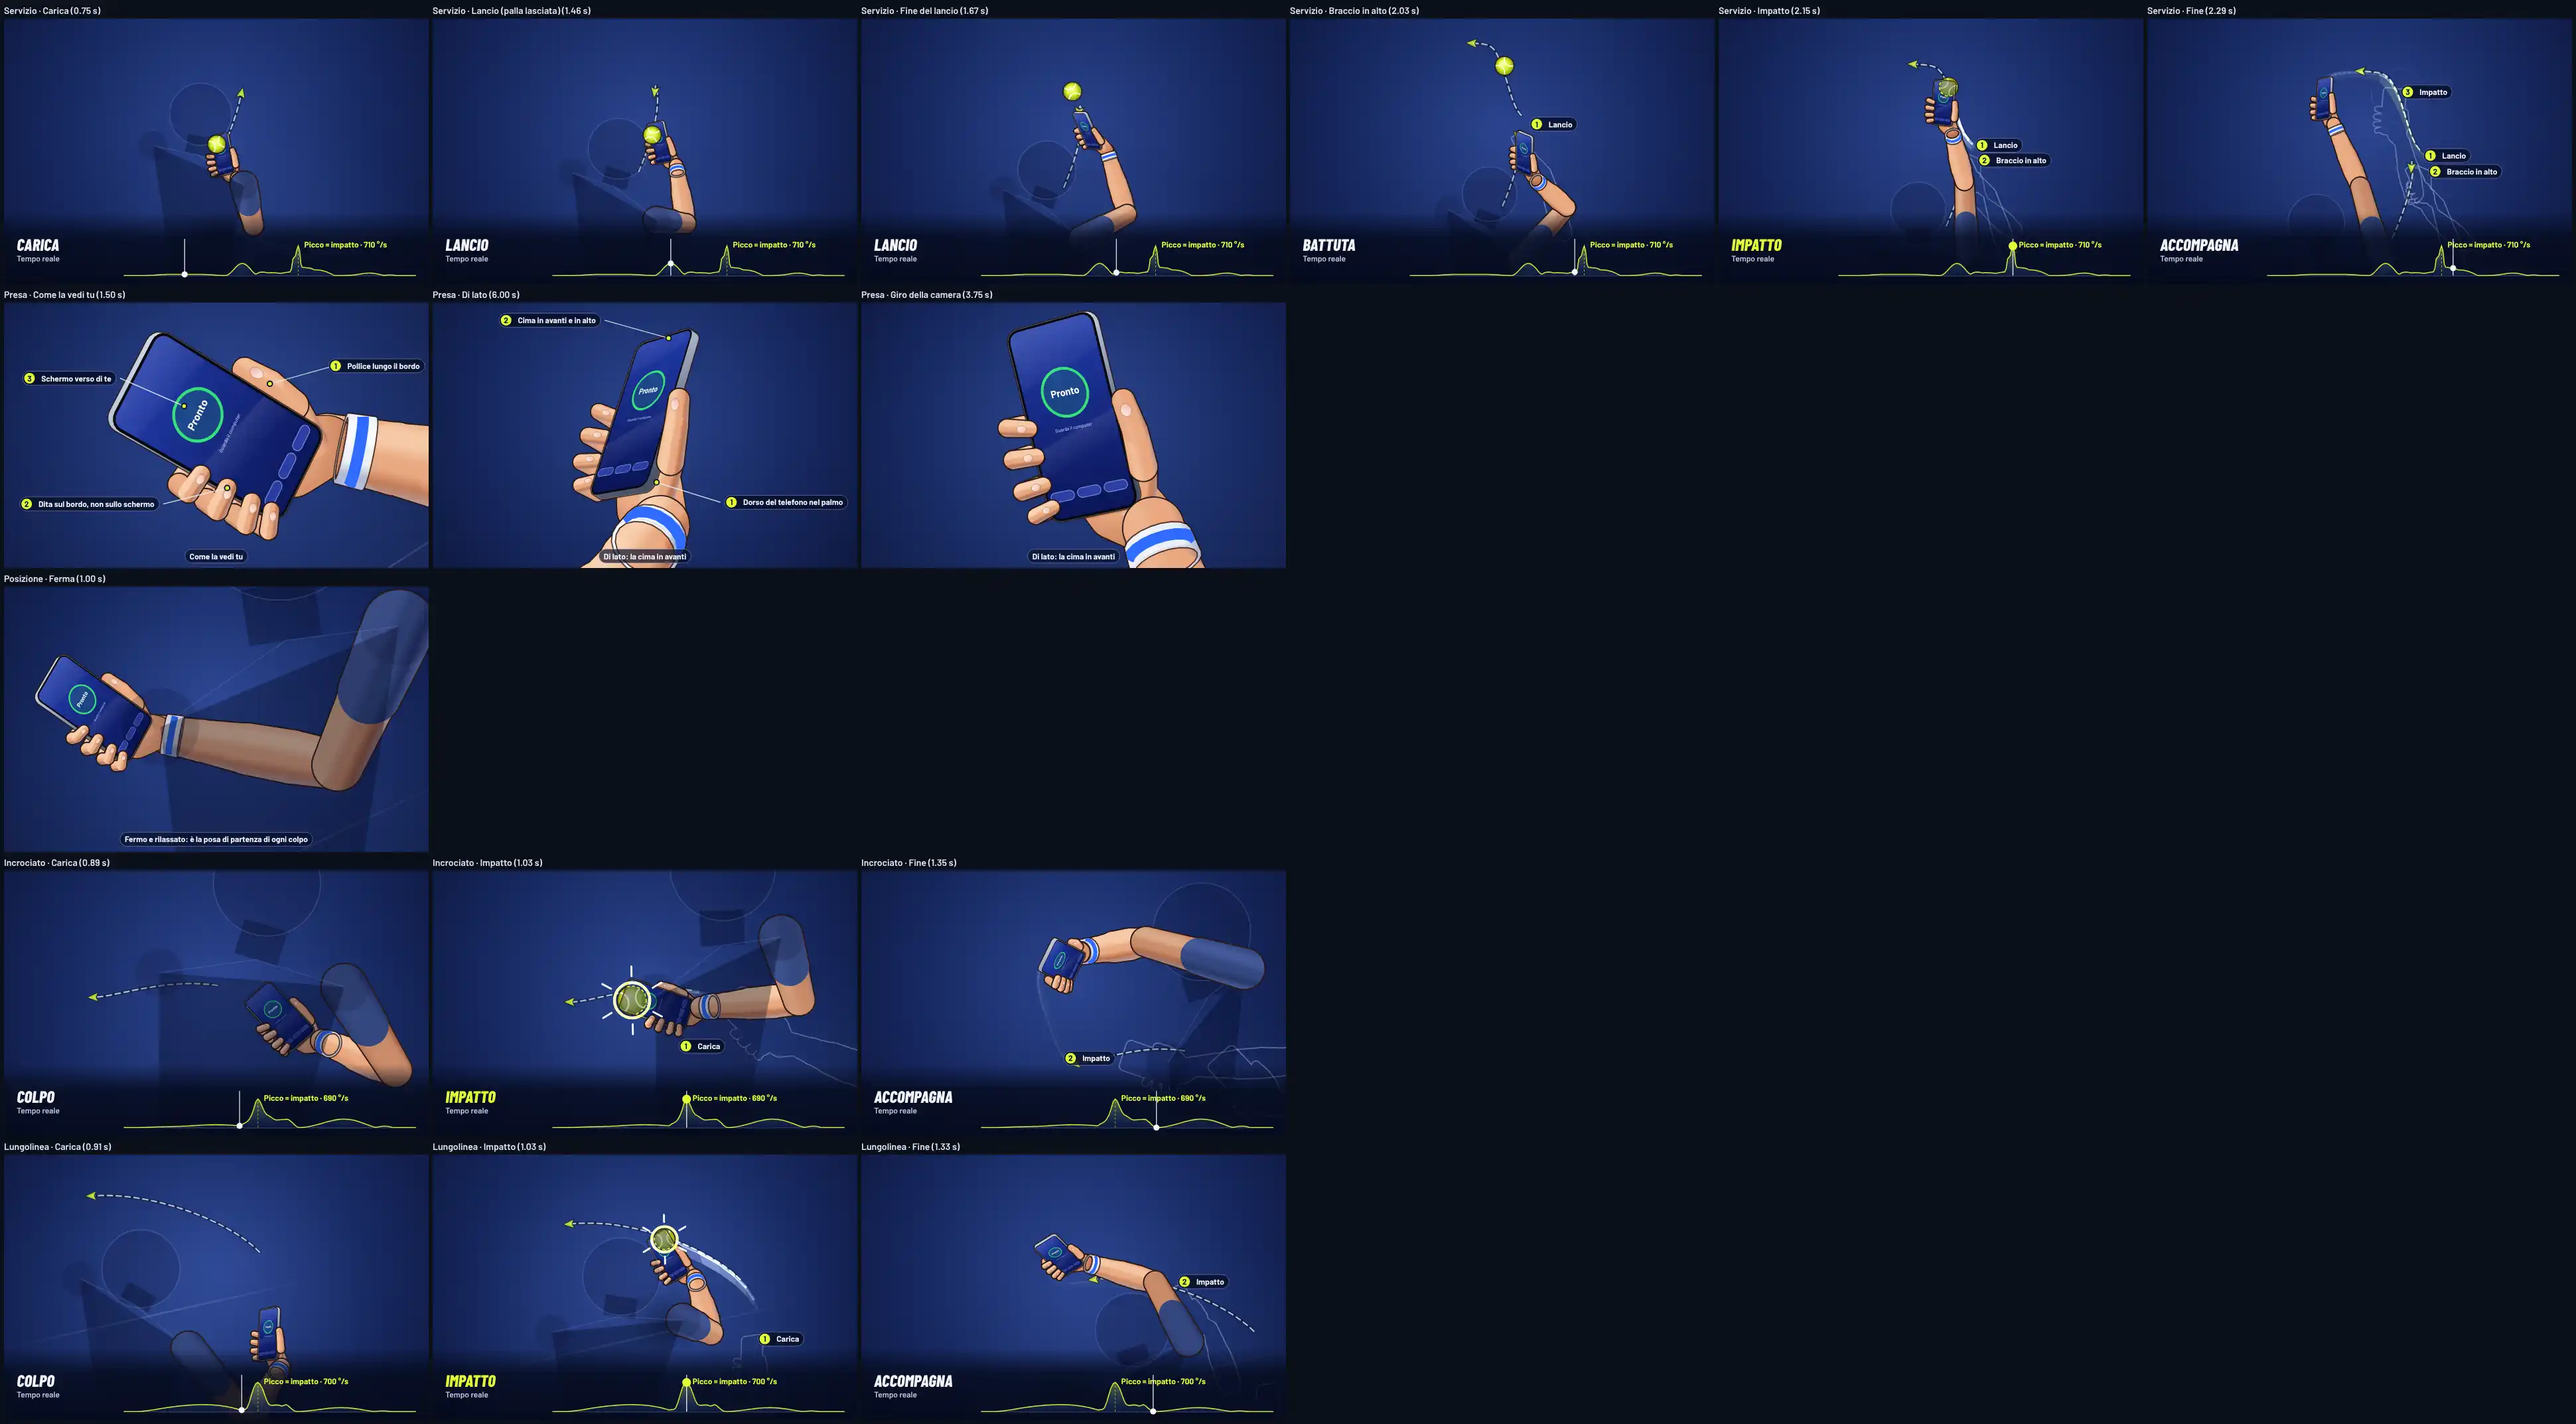
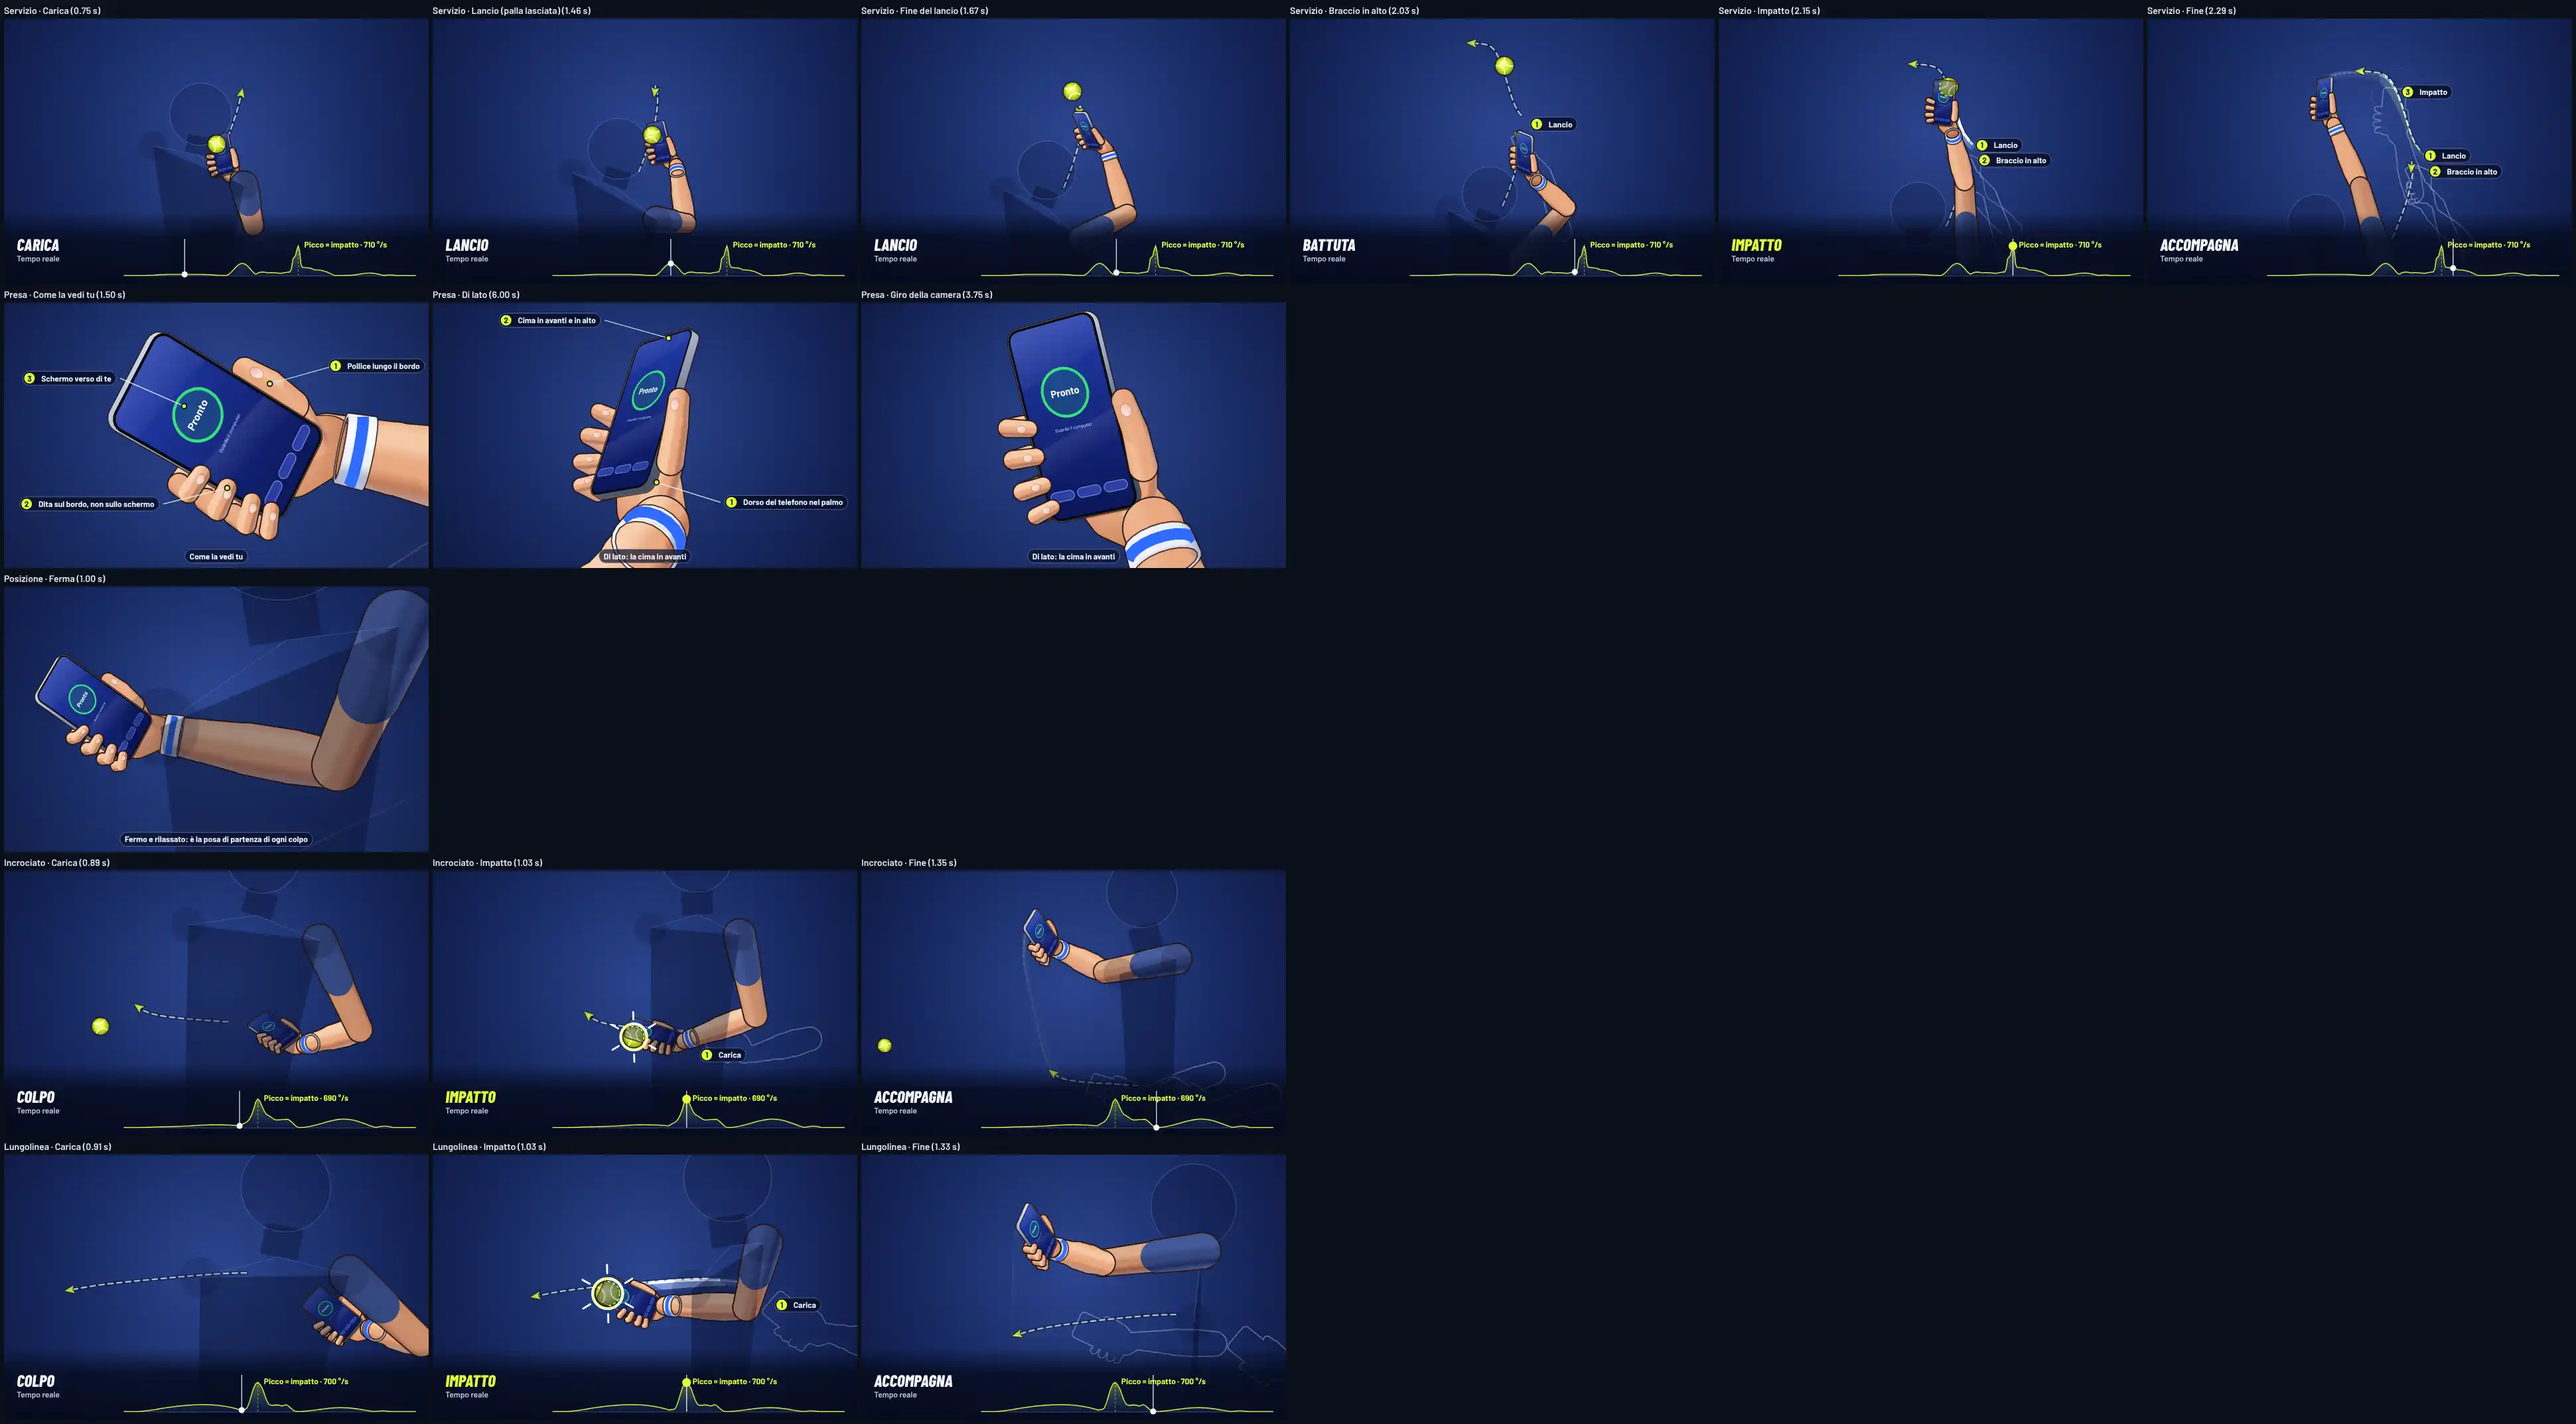
Documenti B14: versione 2026-11-08.2 pubblicata (camere più basse, vincolo del dritto smentito), B14.2 in corso
Claude-Session: https://claude.ai/code/session_01R98qPBRMWiYnbcjA1WWYB9

diff --git a/docs/WORK_PROGRESS.md b/docs/WORK_PROGRESS.md
@@ -505,3 +505,36 @@ Analisi in `docs/b9/` (modale e animazione, specifica dei gesti, telefono e sche
   `gesture-calibration` al primo tentativo; «NATPF motore base MVP» verde; «NATPF eseguibili Windows» verde e installer
[1 lines of base64/hex data omitted]
   `latest.json` con la novità e link fisso `windows/NATPF-Simulator-Setup.exe` controllati dall'indirizzo pubblico).
+
+## B14 · Dritto: limite smentito, camere più basse, orientamento del telefono · [~] · 08/11/2026
+- Seguito del B13 (stessa richiesta: «il dritto non mi sembra tale»). Indagine in tre rami locali con verifiche
+  indipendenti (brief in scratchpad, riassunti qui):
+  - (A) **Vincolo del B13 smentito**: dritto con la mano a 32,8° dalla rete (prima 56,7°) senza toccare il riconoscimento,
+    887/887, 40/40 letture, 0/72 errori con le prese di chi imita; il limite veniva dalle bande dell'ottimizzatore del B13.
+    Vincoli veri con file e righe in `docs/PROJECT_MEMORY.md` (gesti B13). **Non integrato**: il verificatore ha visto nei
+    fogli un guadagno modesto e alcuni peggioramenti (contatto più basso e arretrato, palmo meno davanti).
+  - (B) **Camere** (integrato, `1b779d2`, `2b7d0b6`): dritto da dietro a sinistra e in basso (azimut −55°, elevazione 15°),
+    la camera segue meno la mano (`follow.mixSmall`); lungolinea, incrociato, piatto, rovescio ritoccati. Sullo schermo
+    «avanti» e «in alto» ora distinti di 78° (prima 20°), mano all'impatto 9° dalla direzione della rete sullo schermo
+    (prima 59°), salita dopo l'impatto +0,28 dell'altezza (prima scendeva di circa 7 px). Moto identico (verificato su
+    40.700 campioni). Nuovo test `natpf-gesture-camera.test.mjs`; prototipo della testa di racchetta fantasma **spento**
+    (`GHOST_RACKET = false`: con l'orientamento di oggi mostrerebbe la racchetta verso la rete all'impatto).
+    Documento `docs/b14/camera-dritto.md`.
+  - (C) **Revisione a occhi nuovi** di tutte le schede: il problema del dritto è l'**orientamento del telefono** (la cima,
+    cioè la racchetta virtuale, punta alla rete in carica; all'impatto palmo e schermo guardano chi gioca; la testa della
+    racchetta va a 89° dalla rete). Altri punti: volée che spazza invece di spingere, fine di servizio e schiacciata
+    troppo alte, tenute finali di 0,03 s, palla corta troppo vicina, fascia del grafico che copre pose chiave, fantasmi che
+    sembrano braccia in più, busto a pezzi con la testa trasparente, manica troppo grande.
+- [x] B14.1 · versione **2026-11-08.2** (`04a702d`: correzioni ai commenti e ai documenti delle camere, vincolo smentito nei
+  documenti, novità). Verifiche: gioco 891/891, sito 195/195, LAN 12/12, programma Windows 28/28, build ok; nel browser
+  `gesture-calibration` 18/18, `natpf-modale-gesti` 18/18, `natpf-gesti-fotogrammi` 31/31, `natpf-gesti-sequenze` 47/47,
+  `natpf-training-flow` 18/18, `natpf-tutorial-phone` 37/37, `natpf-tutorial-relink` 8/8. Zip Cloudflare
+  `natpf-simulator-cloudflare-20261108-2.zip` 22.566.432 B (127 file), sha256
[1 lines of base64/hex data omitted]
+  GitHub: tre esecuzioni verdi; installer **2026-11-08.2 pubblicato su R2** (124.594.293 B, sha256
[1 lines of base64/hex data omitted]
+- [~] B14.2 (in corso, rami locali `b14-d`, `b14-e`, `b14-f` da `04a702d`, non pubblicati): (D) famiglia del dritto con
+  la racchetta portata indietro in carica e il palmo verso la rete all'impatto; (F) volée a pugno, fine di servizio e
+  schiacciata fino alla vita, tenute finali, palla corta, rovescio, pallonetto e tagliato; (E) disegno (fascia del
+  grafico, fantasmi, busto unico con occlusione, manica, palla sulla faccia giusta, 200×200, fotogrammi «Fine»).
+- Non verificato: telefoni veri, persone vere, Windows; l'utente non ha ancora visto i fogli.

diff --git a/docs/PIANO_LAVORI.md b/docs/PIANO_LAVORI.md
@@ -42,12 +42,19 @@ Come si aggiorna:
   libero in servizio e schiacciata; camera alta da dietro (stile TV) per i colpi da fondo.
 - GitHub: le tre esecuzioni del push sono verdi («NATPF Simulator tests» con `gesture-calibration` al primo tentativo);
   installer **2026-11-08.1 pubblicato su R2** (sha256 `4000b1b7…60753204`). Zip Cloudflare sha256 `34889962…cf5a3cf0`.
-- In corso (08/11): indagine B14 sul dritto, solo in rami locali (`b14-dritto-a`, `b14-dritto-b`, non pubblicati):
-  (a) smentire o confermare il limite del riconoscimento cercando un dritto con la mano ≤ 35° dalla rete che passi le
-  prove di fedeltà; (b) inquadrature più leggibili; (c) revisione a occhi nuovi dei fogli.
-- **Prossima azione esatta:** leggere l'esito dell'indagine B14 (se interrotta, i rami locali e le note
-  `scratchpad/b14/notes-*.md` non sopravvivono alla sessione: ripartire dalla domanda (a) se serve) e aspettare il parere
-  dell'utente sui gesti e sulle tre decisioni.
+- **B14 (08/11, seguito del B13):** il «vincolo del riconoscimento» del dritto è smentito (33° dalla rete senza
+  toccarlo, verificato); camere più basse per il dritto e i colpi da fondo integrate: versione **2026-11-08.2**
+  (`04a702d`), tutte le prove verdi, tre esecuzioni di GitHub verdi, installer pubblicato su R2 (sha256 `18559a51…bc5049a8`),
+  zip Cloudflare sha256 `cf51aa20…b10fd4f6`. La revisione a occhi nuovi ha trovato il problema vero del dritto:
+  l'orientamento del telefono (racchetta verso la rete in carica, palmo verso chi gioca all'impatto). Dettaglio in
+  `docs/WORK_PROGRESS.md` B14.
+- **In corso:** B14.2 in tre rami locali da `04a702d` (non pubblicati, non sopravvivono alla fine della sessione):
+  (D) dritto, piatto, incrociato e lungolinea con la racchetta portata indietro e il palmo verso la rete; (F) volée,
+  servizio, schiacciata, tenute finali, palla corta, rovescio, pallonetto, tagliato; (E) disegno. Ognuno con una verifica
+  indipendente; poi integrazione, prove complete, versione 2026-11-08.3.
+- **Prossima azione esatta:** integrare i rami B14.2 verificati (le modifiche marcate «PROPOSTA:» a test o dati di
+  calibrazione si valutano una per una); se la sessione è finita, ripartire dal brief della revisione riassunto in
+  `docs/WORK_PROGRESS.md` B14 punto (C). Restano le decisioni dell'utente (sagoma del busto, racchetta fantasma, camera).
 ## 2. Regole di lavoro decise dall'utente (04/11/2026, valgono per tutti gli agenti)
 
 1. **Push**: dopo ogni commit verificato, subito, su `origin natpf-simulator`. Verificato = test del gioco e del sito
@@ -124,6 +131,7 @@ Legenda: [ ] da fare · [~] in corso · [x] fatto, verificato e pubblicato.
 | B11 Installer unico con aggiornamenti | [x] | un solo installer Windows che si aggiorna dal gioco (Cloudflare R2, bucket UE `natpfsimulator`), zip LAN e portatile tolti; collaudo Windows dell'utente in corso | `8623bd9`…`fa190f2` | 2026-11-07.4 |
 | B12 Forza del colpo e CI | [x] | colpo tipico solo dai colpi normali (palle corte non abbassano più la forza); azioni di GitHub a Node 24 | vedi WORK_PROGRESS B12 | 2026-11-07.5 |
 | B13 Prova del servizio e gesti del tutorial | [x] | `gesture-calibration` senza pausa di rete (stabile con CPU ×4); gesti del tutorial sulla catena fisica del braccio (dritto ancora in diagonale: limite del riconoscimento) | vedi WORK_PROGRESS B13 | 2026-11-08.1 |
+| B14 Dritto: limite, camere, orientamento | [~] | vincolo smentito; camere più basse (2026-11-08.2); in corso orientamento del telefono nel dritto, altri colpi, disegno | vedi WORK_PROGRESS B14 | 2026-11-08.2 |
 
 Ordine: B0 → B1 → B2 → B3 → B4 → B5 → B6. B2 e B6 non dipendono dagli altri e possono essere anticipati se un blocco
 resta in attesa di una decisione. B4 dipende da B3 (il contenuto della modale mostra la presa nuova).
